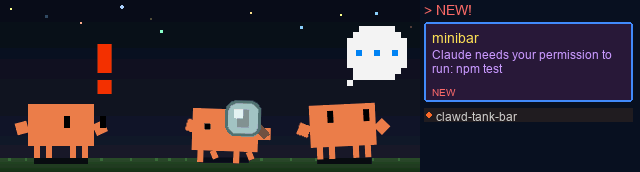
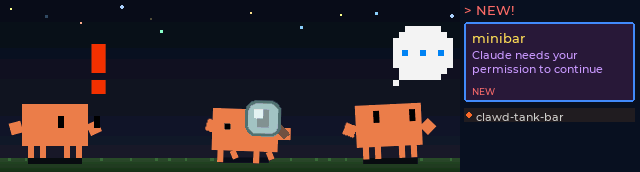
docs(readme): show the bar's screen at the top, drawn from the current layout
The README opens with the quiet screen and a notification instead of the original board's simulator GIFs. The three
reference renders in docs/bar are redrawn to match what the firmware does now: sessions spread as scene.c places
them, the 180 px panel, the 12-hour clock, the 135 px No connection Clawd, and LVGL's Montserrat for the text.

diff --git a/README.md b/README.md
@@ -11,8 +11,9 @@ Clawd Tank is a notification display for Claude Code running on the [Waveshare E
 **No hardware? No problem.** The simulator runs natively on macOS and ships bundled inside the Menu Bar app. Download it from [Releases](https://github.com/marciogranzotto/clawd-tank/releases) — no build tools needed.
 
 <p align="center">
-  <img src="assets/sim-recordings/clawd-multi-session.gif" alt="Multi-session display" width="480">
-  <img src="assets/sim-recordings/clawd-notification.gif" alt="Clawd notification" width="480">
+  <img src="docs/bar/mock-wide.png" alt="The bar's quiet screen: four sessions, each with its own Clawd, and the clock" width="640"><br>
+  <img src="docs/bar/mock-notification-wide.png" alt="A notification arriving: three Clawds beside the 180 px notification panel" width="640"><br>
+  <sub>The Waveshare bar's screen (640 x 172): quiet with four sessions, and a notification arriving. Reference renders drawn from the firmware's own sprites and layout rules, not photos. The simulator's original 320 x 172 recordings are in <code>assets/sim-recordings/</code>.</sub>
 </p>
 
 ## How It Works
@@ -62,7 +63,7 @@ What changed (all under `firmware/`):
 
 ### The wide layout (640 x 172)
 
-Reference renders are in `docs/bar/`: `mock-wide.png` (quiet state, four sessions), `mock-notification-wide.png` (a notification's hero moment, three sessions, the 220 px panel) and `mock-disconnected.png` (the No connection screen), all drawn from the 1.5x sprites described below. `mock-centred.png`, `mock-notification-centred.png` and `mock-notification-centred-collapsed.png` are the first pass's 320 layout with the original-size salmon sprites. The mock's fonts are not Montserrat, so text widths there are approximate.
+Reference renders are in `docs/bar/`: `mock-wide.png` (quiet state, four sessions), `mock-notification-wide.png` (a notification's hero moment, three sessions, the 180 px panel) and `mock-disconnected.png` (the No connection screen with its 135 px Clawd), all drawn from the 1.5x sprites described below, with the sessions spread as `scene.c` places them and LVGL's Montserrat for the text. `mock-centred.png`, `mock-notification-centred.png` and `mock-notification-centred-collapsed.png` are the first pass's 320 layout with the original-size salmon sprites. They are renders, not photos: the real panel's colours and text edges differ slightly.
 
 Quiet (no notifications): the scene is the full 640 px. The sky gradient and the grass span the width, the seven-tuft pattern repeats every 160 px, and there are sixteen stars instead of six (the original six, the same six again 330 px to the right, four more in the gaps; same sizes and twinkle). Sessions get equal lanes, each sprite centred in its lane: one session at x 320; two at 160 and 480; three at 106, 320 and 533; four at 80, 240, 400 and 560 (on 320 the original table, 160 / 107 + 213 / 80 + 160 + 240 / 64 + 128 + 192 + 256, stays). The clock is top-right, 6 px in from the edge at y 4; the sub-agent counter stays top-left at (4, 2); the "+N" overflow badge keeps its rule (five or more sessions) and sits 6 px to the left of the clock.
 
